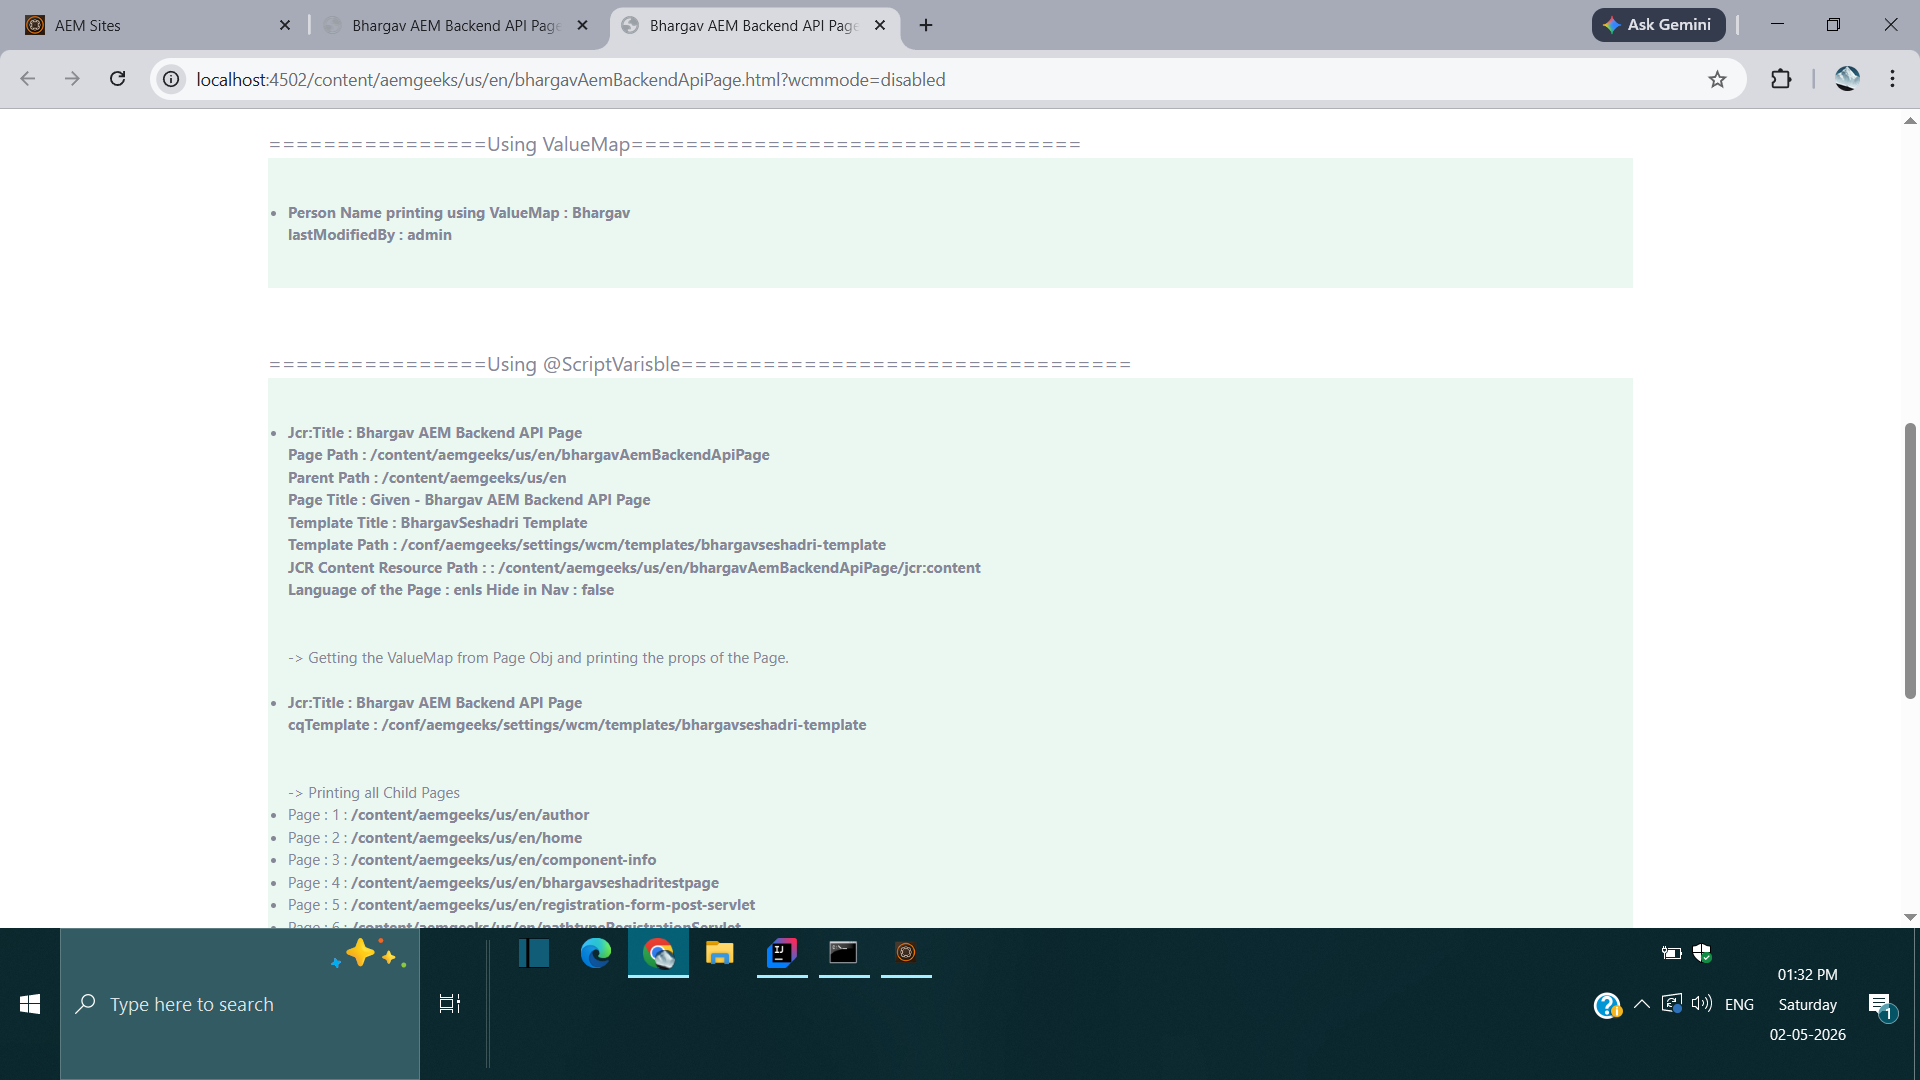
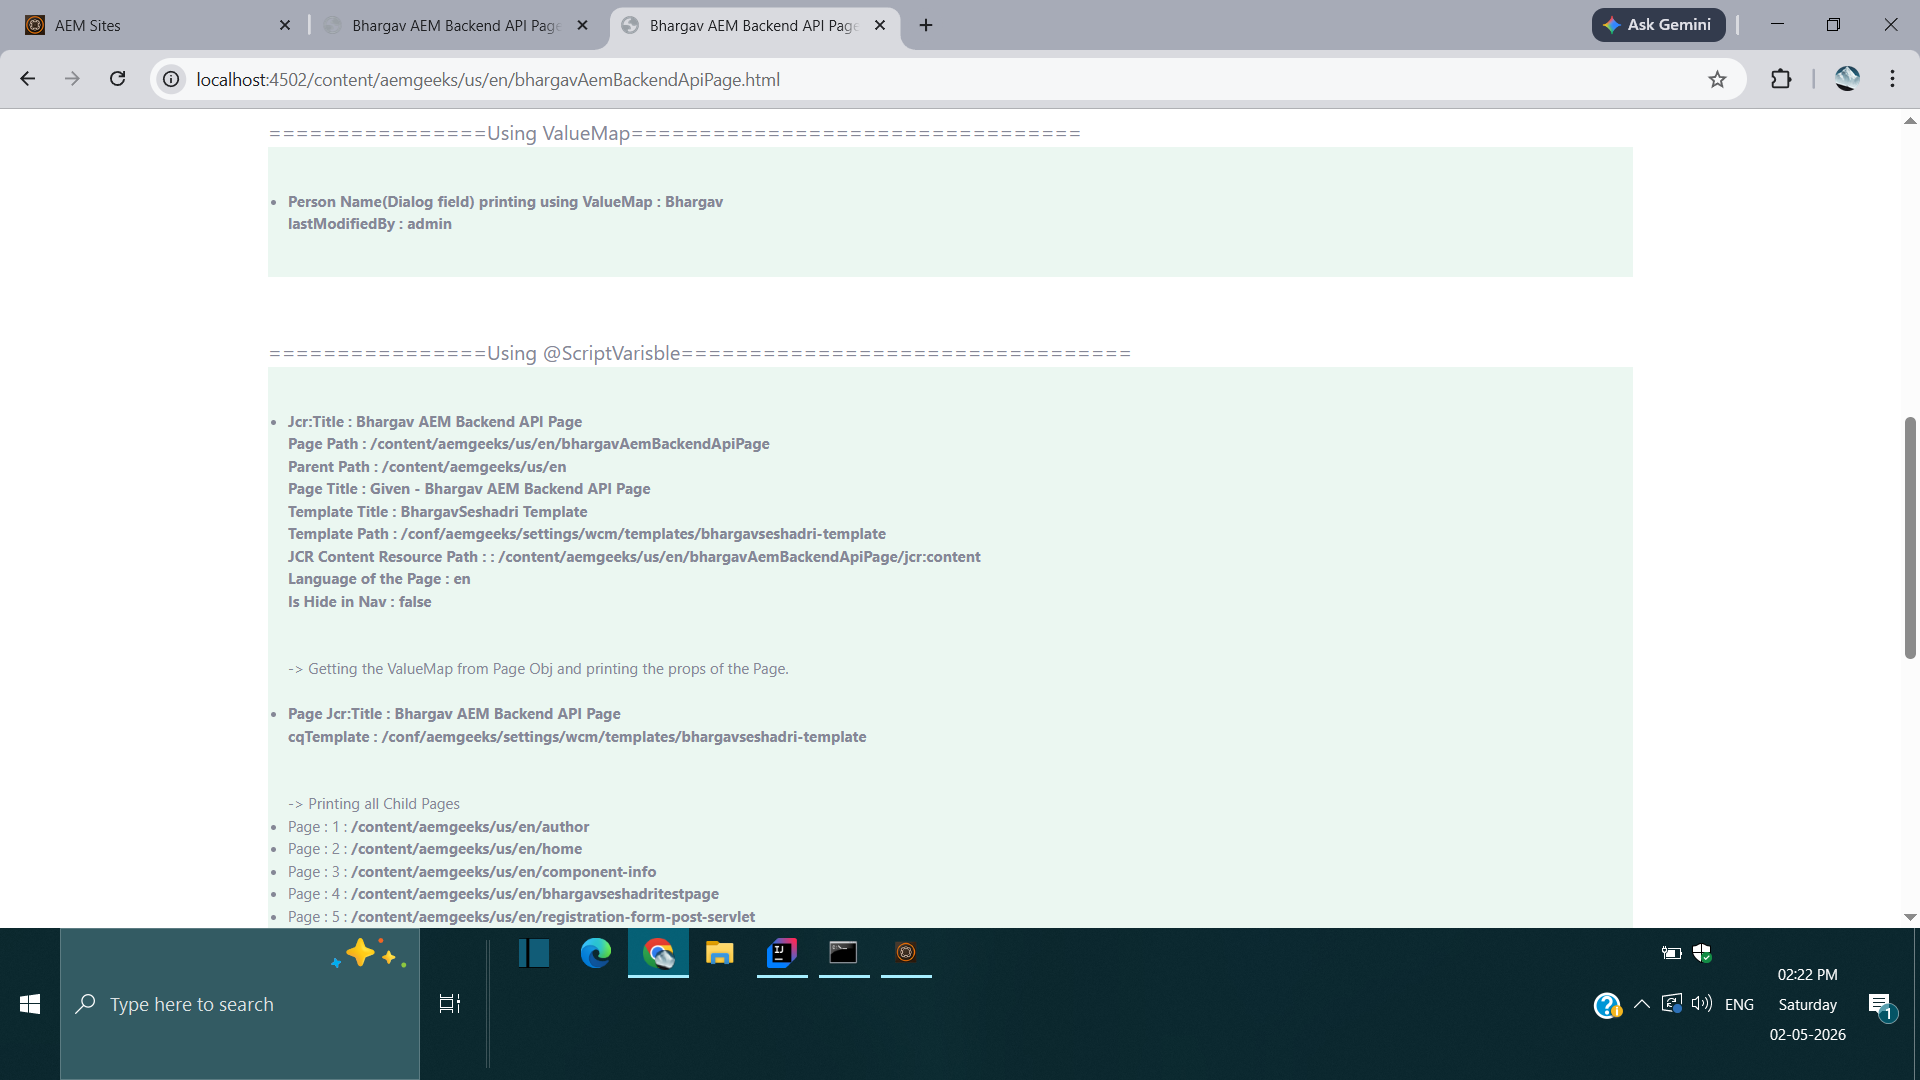
Randon Commit

diff --git a/core/src/main/java/com/aem/geeks/core/models/impl/BhargavBackendAemApisCompModelImpl.java b/core/src/main/java/com/aem/geeks/core/models/impl/BhargavBackendAemApisCompModelImpl.java
@@ -73,7 +73,7 @@ public class BhargavBackendAemApisCompModelImpl implements BhargavBackendAemApis
 
     @Override
     public String getResourcePath() {
-        return "Resource Path : " + resource.getPath();
+        return "Component Resource Path : " + resource.getPath();
     }
 
     @Override
@@ -83,12 +83,12 @@ public class BhargavBackendAemApisCompModelImpl implements BhargavBackendAemApis
         String resourseName = resource.getName();
 
         //This will give the sling:resourceType of the component (or current resourse we are on).
-        String resourceType = resource.getResourceType();
+        String compSlingResourceType = resource.getResourceType();
 
         Resource parentResourseDetails = resource.getParent();
         String parentResoursePath = resource.getParent().getPath();
 
-        return "Resource Name : " + resourseName + "\n" + "Resource Type : " + resourceType + "\n"
+        return "Resource Name : " + resourseName + "\n" + "Resource Type : " + compSlingResourceType + "\n"
                 + "Parent Resource Details : " + parentResourseDetails + "\n" + "Parent Resource Path : " + parentResoursePath;
     }
 
@@ -137,7 +137,7 @@ public class BhargavBackendAemApisCompModelImpl implements BhargavBackendAemApis
         String personNameUsingValueMap = valueMap.get("personName", String.class);
         String lastModifiedBy = valueMap.get("jcr:lastModifiedBy", String.class);
 
-        return "Person Name printing using ValueMap : " + personNameUsingValueMap + "\n" + "lastModifiedBy : " + lastModifiedBy;
+        return "Person Name(Dialog field) printing using ValueMap : " + personNameUsingValueMap + "\n" + "lastModifiedBy : " + lastModifiedBy;
     }
     /*--------------------------------------------------------------------------------------------------------------------------*/
 
@@ -158,24 +158,26 @@ public class BhargavBackendAemApisCompModelImpl implements BhargavBackendAemApis
     public String getCurrentPageDetails() {
 
         //Printing JCR:Title of a Page
-        String jcrTitle = currentPage.getTitle();
-
-        //Here we are directly getting hold of JCR:Content of the page
-        String contentResource = currentPage.getContentResource().getPath();
+        String jcrTitleOfCurrPage = currentPage.getTitle();
 
         String pagePath = currentPage.getPath();
         String parentPath = currentPage.getParent().getPath();
-        String templateTitle = currentPage.getTemplate().getTitle();
-        String templatePath = currentPage.getTemplate().getPath();
-        String language = currentPage.getLanguage().toString();
-        Boolean isHideInNav = currentPage.isHideInNav();
 
         // This will only print, If we give Page Title in the "Page Properties" of a page. Jcr:Title and this are not same.
         String pageTitle = currentPage.getPageTitle();
 
-        return "Jcr:Title : " + jcrTitle + "\n" + "Page Path : " + pagePath + "\n" + "Parent Path : " + parentPath + "\n" + "Page Title : "
+        String templateTitle = currentPage.getTemplate().getTitle();
+        String templatePath = currentPage.getTemplate().getPath();
+        String language = currentPage.getLanguage().toString();
+
+        //Here we are directly getting hold of JCR:Content of the page
+        String jcrContentResource = currentPage.getContentResource().getPath();
+
+        Boolean isHideInNav = currentPage.isHideInNav();
+
+        return "Jcr:Title : " + jcrTitleOfCurrPage + "\n" + "Page Path : " + pagePath + "\n" + "Parent Path : " + parentPath + "\n" + "Page Title : "
                 + pageTitle + "\n" + "Template Title : " + templateTitle + "\n" + "Template Path : " + templatePath + "\n"
-                + "JCR Content Resource Path : : " + contentResource + "\n" + "Language of the Page : " + language + "Is Hide in Nav : " + isHideInNav;
+                + "JCR Content Resource Path : : " + jcrContentResource + "\n" + "Language of the Page : " + language + "\n" + "Is Hide in Nav : " + isHideInNav;
 
     }
 
@@ -183,12 +185,12 @@ public class BhargavBackendAemApisCompModelImpl implements BhargavBackendAemApis
     @Override
     public String getPropsUsingValueMap() {
 
-        //Getting a ValueMap using Page Object and printing the Properties of the Page.
+        //Getting a ValueMap using Page Object and printing the Properties of the "Page".
         ValueMap allPageProperties = currentPage.getProperties();
-        String jcrTitle = allPageProperties.get("jcr:title", String.class);
+        String pageJcrTitle = allPageProperties.get("jcr:title", String.class);
         String cqTemplate = allPageProperties.get("cq:template", String.class);
 
-        return "Jcr:Title : " + jcrTitle + "\n" + "cqTemplate : " + cqTemplate;
+        return "Page Jcr:Title : " + pageJcrTitle + "\n" + "cqTemplate : " + cqTemplate;
 
     }
 
@@ -234,7 +236,7 @@ public class BhargavBackendAemApisCompModelImpl implements BhargavBackendAemApis
         String pagePath = pageManager.getContainingPage(resource).getPath();
 
         if (page != null) {
-            return "Using PageManager - Jcr:Title : " + pageTitle + "\n" + "Page Path : " + pagePath;
+            return "Using PageManager - Page Jcr:Title : " + pageTitle + "\n" + "Page Path : " + pagePath;
         } else {
             return "Page not found";
         }
@@ -260,7 +262,7 @@ public class BhargavBackendAemApisCompModelImpl implements BhargavBackendAemApis
 
         /*Important : request.getParameter(...) only returns form/query parameters (name/value pairs in the query string or POST body). It does NOT read
                       HTTP headers or the request URL*/
-        return "Query Parameter : " + request.getParameter("name") + "\n" + "Request URL : " + request.getRequestURI().toString();
+        return "Query Parameter : " + request.getParameter("name") + "\n" + "Request URL(Complete page url with .html) : " + request.getRequestURI().toString();
     }
 
     @Override
@@ -280,7 +282,7 @@ public class BhargavBackendAemApisCompModelImpl implements BhargavBackendAemApis
     //eg : If we are on the page - /content/aemgeeks/us/en/jcr:content/root/container/bhargav-backend-aem-apis-comp.html
     @Override
     public String getPath() {
-        return "Request Path : " + request.getRequestPathInfo().getResourcePath();
+        return "Request Path(it gives Current Resource Path) : " + request.getRequestPathInfo().getResourcePath();
     }
 
 }